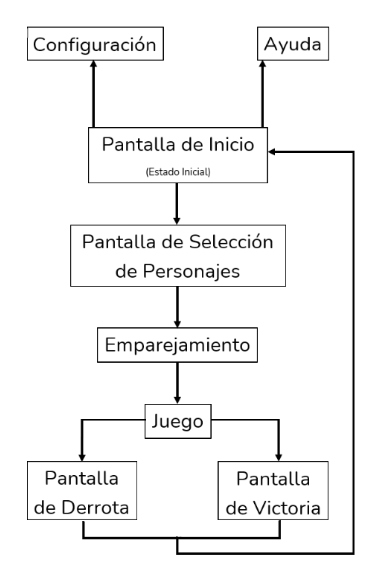
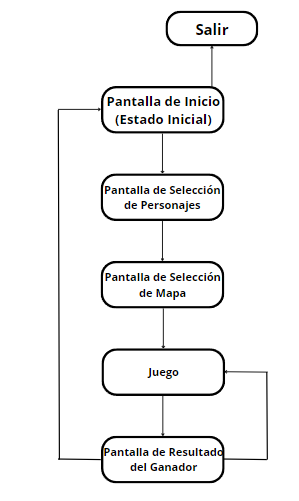
Luego sigo

Changed region(s): [[0.0602, 0.0, 0.9632, 0.988], [0.5418, 0.0299, 0.602, 0.0898]]

diff --git a/README.md b/README.md
@@ -13,11 +13,7 @@ Garazi Blanco Jauregi
 
 Alberto López García de Ceca   
 * a.lopezgar.2022@alumnos.urjc.es   
-* Github: ratamolinera777  
-
-José Ramón Hernández-Franch Pérez del Hierro  
-* jor.hernandezfr.2022@alumnos.urjc.es  
-* Github:  
+* Github: ratamolinera777   
 
 Laura Blázquez Pelaz   
 * l.blazquez.2022@alumnos.urjc.es   
@@ -33,37 +29,37 @@ Laura Blázquez Pelaz
 
 # 1. Introducción: Definición del juego
 ## 1.1. Concepto del juego
-Champinchanted, es un videojuego diseñado para dos jugadores, ambientado en un emocionante entorno de plataformas, místico y mágico.   
+Champinchanted, es un videojuego diseñado para dos jugadores, ambientado en un emocionante entorno de plataformas, místico y mágico. 
 
-El objetivo del juego es capturar una bandera que aparece de forma aleatoria en diferentes puntos del mapa. Cada jugador comienza en su "casa", una base fija situada en lados opuestos del mapa. Desde allí, ambos deberán correr y saltar para llegar hasta la bandera antes que su oponente. Cuando un jugador capture la bandera, deberá regresar rápidamente a su casa para marcar un punto. El juego se compone de tres rondas y el jugador que gane más rondas será declarado vencedor.  
+El objetivo del juego es capturar una bandera que aparece de forma aleatoria en diferentes puntos del mapa. Cada jugador comienza en su "casa", una base fija situada en lados opuestos del mapa. Desde allí, ambos deberán correr y saltar para llegar hasta la bandera antes que su oponente. Cuando un jugador capture la bandera, deberá regresar rápidamente a su casa para marcar un punto. El juego se compone de tres rondas y el jugador que gane más rondas será declarado vencedor.
 
-El desafío no solo radica en capturar la bandera, sino también en sobrevivir a los obstáculos y hechizos que aparecerán aleatoriamente en el mapa. Estos hechizos y trampas están diseñados para entorpecer y complicar la tarea de los jugadores, pudiendo ser utilizados por estos de manera estratégica para ralentizar o incluso detener al oponente.   
+El desafío no solo radica en capturar la bandera, sino también en sobrevivir a los obstáculos y hechizos que aparecerán aleatoriamente en el mapa. Estos hechizos y trampas están diseñados para entorpecer y complicar la tarea de los jugadores, pudiendo ser utilizados por estos de manera estratégica para ralentizar o incluso detener al oponente. 
+El juego ofrece un equilibrio perfecto entre la acción rápida de las plataformas y la estrategia de saber cuándo atacar, defender o utilizar los hechizos a tu favor. 
 
-El juego ofrece un equilibrio perfecto entre la acción rápida de las plataformas y la estrategia de saber cuándo atacar, defender o utilizar los hechizos a tu favor.  
   
 ## 1.2. Características principales 
-Los jugadores pueden elegir entre varios personajes, cada uno con sus propios diseños. Esto aporta un toque de personalización y hace que el juego sea más atractivo visualmente.  
+Los jugadores pueden elegir entre varios personajes, cada uno con sus propios diseños. Esto aporta un toque de personalización y hace que el juego sea más atractivo visualmente.
 
-El mapa está lleno de plataformas, lo que añade un reto adicional de movimiento y salto. Los jugadores deben maniobrar hábilmente a través de los niveles para alcanzar la bandera y evitar a su oponente.  
+El mapa está lleno de plataformas, lo que añade un reto adicional de movimiento y salto. Los jugadores deben maniobrar hábilmente a través de los niveles para alcanzar la bandera y evitar a su oponente.
 
-Durante la partida, aparecen hechizos (ítems), en lugares aleatorios del mapa, que los jugadores pueden recoger y activar. Estos hechizos complican el reto, al interferir con el progreso del oponente, haciendo que aumente la dificultad de obtener la bandera.  
+Durante la partida, aparecen hechizos (ítems), en lugares aleatorios del mapa, que los jugadores pueden recoger y activar. Estos hechizos complican el reto, al interferir con el progreso del oponente, haciendo que aumente la dificultad de obtener la bandera.
 
-La posición de la bandera cambia de manera aleatoria en cada ronda, lo que obliga a los jugadores a adaptarse constantemente y evita que las estrategias se vuelvan repetitivas.  
+La posición de la bandera cambia de manera aleatoria en cada ronda, lo que obliga a los jugadores a adaptarse constantemente y evita que las estrategias se vuelvan repetitivas.
+Además, se ofrecen cuatro mapas distintos, uno por cada estación del año, evitando así, nuevamente, que el juego sea demasiado repetitivo y el jugador pierda el interés.
 
-Además, se ofrecen cuatro mapas distintos, uno por cada estación del año, evitando así, nuevamente, que el juego sea demasiado repetitivo y el jugador pierda el interés.  
-
-Los controles son fáciles de aprender pero difíciles de dominar. Esto permite que tanto jugadores novatos como expertos disfruten del juego, pero también recompensa la habilidad.  
-
-El videojuego tiene la posibilidad de jugar tanto en local como en red.  
+Los controles son fáciles de aprender pero difíciles de dominar. Esto permite que tanto jugadores novatos como expertos disfruten del juego, pero también recompensa la habilidad.
+El videojuego tiene la posibilidad de jugar tanto en local como en red.
+  
 
 ## 1.3. Género
-Es un juego de plataformas competitivas, que sigue la dinámica del “Captura la bandera”.   
+Es un juego de plataformas competitivas, que sigue la dinámica del “Captura la bandera”. 
 
-La acción se basa en las mecánicas clásicas de escenarios de plataformas donde los jugadores deben moverse, saltar y utilizar habilidades en un entorno dinámico y lleno de obstáculos.  
+La acción se basa en las mecánicas clásicas de escenarios de plataformas donde los jugadores deben moverse, saltar y utilizar habilidades en un entorno dinámico y lleno de obstáculos. 
 
-La mecánica central de capturar la bandera y llevarla a una base añade un elemento de estrategia y competición, lo que lo encuadra también dentro de los juegos competitivos locales o en línea.  
+La mecánica central de capturar la bandera y llevarla a una base añade un elemento de estrategia y competición, lo que lo encuadra también dentro de los juegos competitivos locales o en línea.
 
-Además, los hechizos y obstáculos que afectan a los jugadores aportan también acción y estrategia.  
+Además, los hechizos y obstáculos que afectan a los jugadores aportan también acción y estrategia.
+
 
 ## 1.4. Propósito y público objetivo
 El propósito del juego es ofrecer una experiencia competitiva y divertida para dos jugadores, combinando mecánicas de plataformas rápidas y acción estratégica con el clásico objetivo de captura de bandera. Los jugadores deben usar sus habilidades de movimiento, su conocimiento del mapa y los recursos que encuentren para superar a su oponente, atrapando la bandera y llevándola a su base. Además de ser un reto físico, el juego busca fomentar la estrategia y el uso inteligente del entorno, mientras mantiene un ritmo de juego dinámico y emocionante.  
@@ -98,10 +94,10 @@ Inicialmente ofrecerá un único modo de juego, basado en enfrentamientos direct
 La versión inicial contará con 5 personajes para elegir, cada uno con un diseño único y 4 mapas distintos, con diseños y plataformas completamente diferentes.
 
 El juego estará disponible para PC, y se podrá jugar tanto de manera local como en línea.
-
 Si bien es este el alcance inicial, el juego tiene potencial para expandirse con más modos de juego, como un modo cooperativo o competitivo con más de 2 jugadores, y la posibilidad de incluir más hechizos y mapas a través de actualizaciones. Además de un sistema de invitaciones rápidas para facilitar la jugabilidad.
 
 También en el futuro, se podrá cambiar el modelo de negocio del videojuego para poder obtener rentabilidad, por ejemplo mediante compras dentro del juego o venta de expansiones.
+
 
 ## 1.8. Motor de juego
 El videojuego usará el motor Unity, una plataforma comúnmente utilizada para videojuegos 2D y 3D. La elección del motor del juego se ha basado en las herramientas que proporciona para la creación de juegos 2D como Champinchanted, su sistema de físicas, la facilidad para crear animaciones y la gestión de multijugador, necesaria para este videojuego.
@@ -136,10 +132,18 @@ Y otros aspectos como un buen marketing o la integración en torneos online pued
 La licencia del videojuego es Apache 2.0, una licencia de código abierto que implica que los usuarios tienen libertad de usar, copiar y modificar el código del videojuego; redistribuir el software y su uso con fines comerciales, siempre y cuando den crédito a los autores. 
 
 # 2. Historia y narrativa
-## 2.1. Ambientación
+## 2.1. Lore
+En el núcleo del Bosque Eterno, hace miles de años, había un árbol llamado El Árbol de la Sabiduría. A lo largo de los siglos, el árbol absorbió el saber y la historia de la naturaleza. Al llegar al final de su vida, el Árbol predijo el desbalance natural que surgiría en su ausencia a falta de una conciencia colectiva que lo uniera. En un gesto de sacrificio, depositó su esencia en las raíces del bosque, generando una red mágica de hongos que vinculaba cada esquina del mundo subterráneo. De esta manera surgieron las setas, poseedoras de una conciencia primitiva, capaces de interactuar entre sí a través de esporas que se propagaban por todo el bosque.
+
+Con el paso del tiempo, estas setas empezaron a formar personalidades propias, representando elementos de su ambiente: las que se encontraban cerca del agua eran serenas, las que se encontraban en la oscuridad enigmáticas, y las que se desarrollaban al sol eran optimistas y rebosantes de energía.
+
+Conforme las setas tomaron conciencia, comprendieron que su tarea era salvaguardar y preservar la estabilidad del Bosque Eterno. A lo largo de siglos, el bosque experimentó desbalances naturales, variaciones climáticas y la aparición de seres inusuales. Para asegurar la salvaguarda del bosque, las setas de diversas facciones (dependiendo de su aspecto) se involucran en el torneo de Atrapa la Bandera. Este certamen no solo representa una costumbre cultural, sino también un examen para seleccionar a las setas más adecuadas para proteger el bienestar del bosque. A pesar de no poseer poderes mágicos, cada seta simboliza la biodiversidad y el balance de su ecosistema, y su batalla por la bandera representa su dedicación a salvaguardar su casa.
+
+
+## 2.2. Ambientación
 El mundo del videojuego es un bosque encantado, vibrante y encantador, lleno de naturaleza, fauna y elementos mágicos. Desde grandes troncos y champiñones, hasta hechizos y criaturas del bosque. Todo esto ambientado en las cuatro estaciones del año (primavera, verano, otoño e invierno). 
 
-## 2.2. Objetivos del jugador  
+## 2.3. Objetivos del jugador  
 El objetivo del jugador y de su oponente, es llegar desde su base hasta el lugar aleatorio en el que se encuentre la bandera, ayudándose de las diversas plataformas distribuidas por el mapa, alcanzando la bandera y llevándola de vuelta a su base, sin que el otro jugador le alcance y le quite la bandera. 
 
 De esta forma, el jugador que consiga el objetivo, habrá ganado la ronda. El jugador que más rondas haya ganado de entre las tres que componen una partida, será proclamado ganador.
@@ -234,26 +238,31 @@ Los personajes principales tienen un diseño único, inspirado en diferentes tip
 El diseño de Perretxiko está basado en la seta Amanita Muscaria. Una seta tóxica que envenena a los insectos con los que entra en contacto, es por esto que hemos decidido representar a este personaje enfadado. Perretxiko está inspirado en la cultura vasca, con su característica “txapela” y los colores de la bandera vasca o “ikurriña”. 
 
 ![Sprites de Perretxiko](./Imágenes/Perretxiko.png)
+![Animación de Perretxiko](./Imágenes/Animación_perretxiko.png)
 
 **Champichip**
 Champichip es una combinación del champiñón portobello y la patata, hemos querido representar una personalidad divertida y despreocupada para este personaje.
 
 ![Sprites de Champichip](./Imágenes/Champichip.png)
+![Animación de Champichip](./Imágenes/Animación_champichip.png)
 
 **Mariñón**
 Para este personaje nos hemos inspirado en la Hygrocybe conica, también conocida como Seta sombrero de bruja. Los colores empleados representan la bandera lgbtiq+ como forma de apoyo y solidaridad hacia ese colectivo.
 
 ![Sprites de Mariñón](./Imágenes/Mariñón.png)
+![Animación de Mariñón](./Imágenes/Animación_mariñon.png)
 
 **Champistar**
 El personaje de Champistar está inspirado por la cultura emo y alternativa, le hemos querido representar con la seta Cortinarius violaceus, una seta morada oscura que recuerda mucho a esta estética.
 
 ![Sprites de Champistar](./Imágenes/Champistar.png)
+![Animación de Champistar](./Imágenes/Animación_champistar.png)
 
 **Biblioseta**
 La Biblioseta está basada en el Hygrocybe coccinea, un pequeño y poco común hongo. Este personaje tiene la característica distintiva de ser más pequeño que el resto.
 
 ![Sprites de Biblioseta](./Imágenes/Biblioseta.png)
+![Animación de Biblioseta](./Imágenes/Animación_biblioseta.png)
 
 ## 5.4. Diseño de entornos
 ### 5.4.1. Fondos
